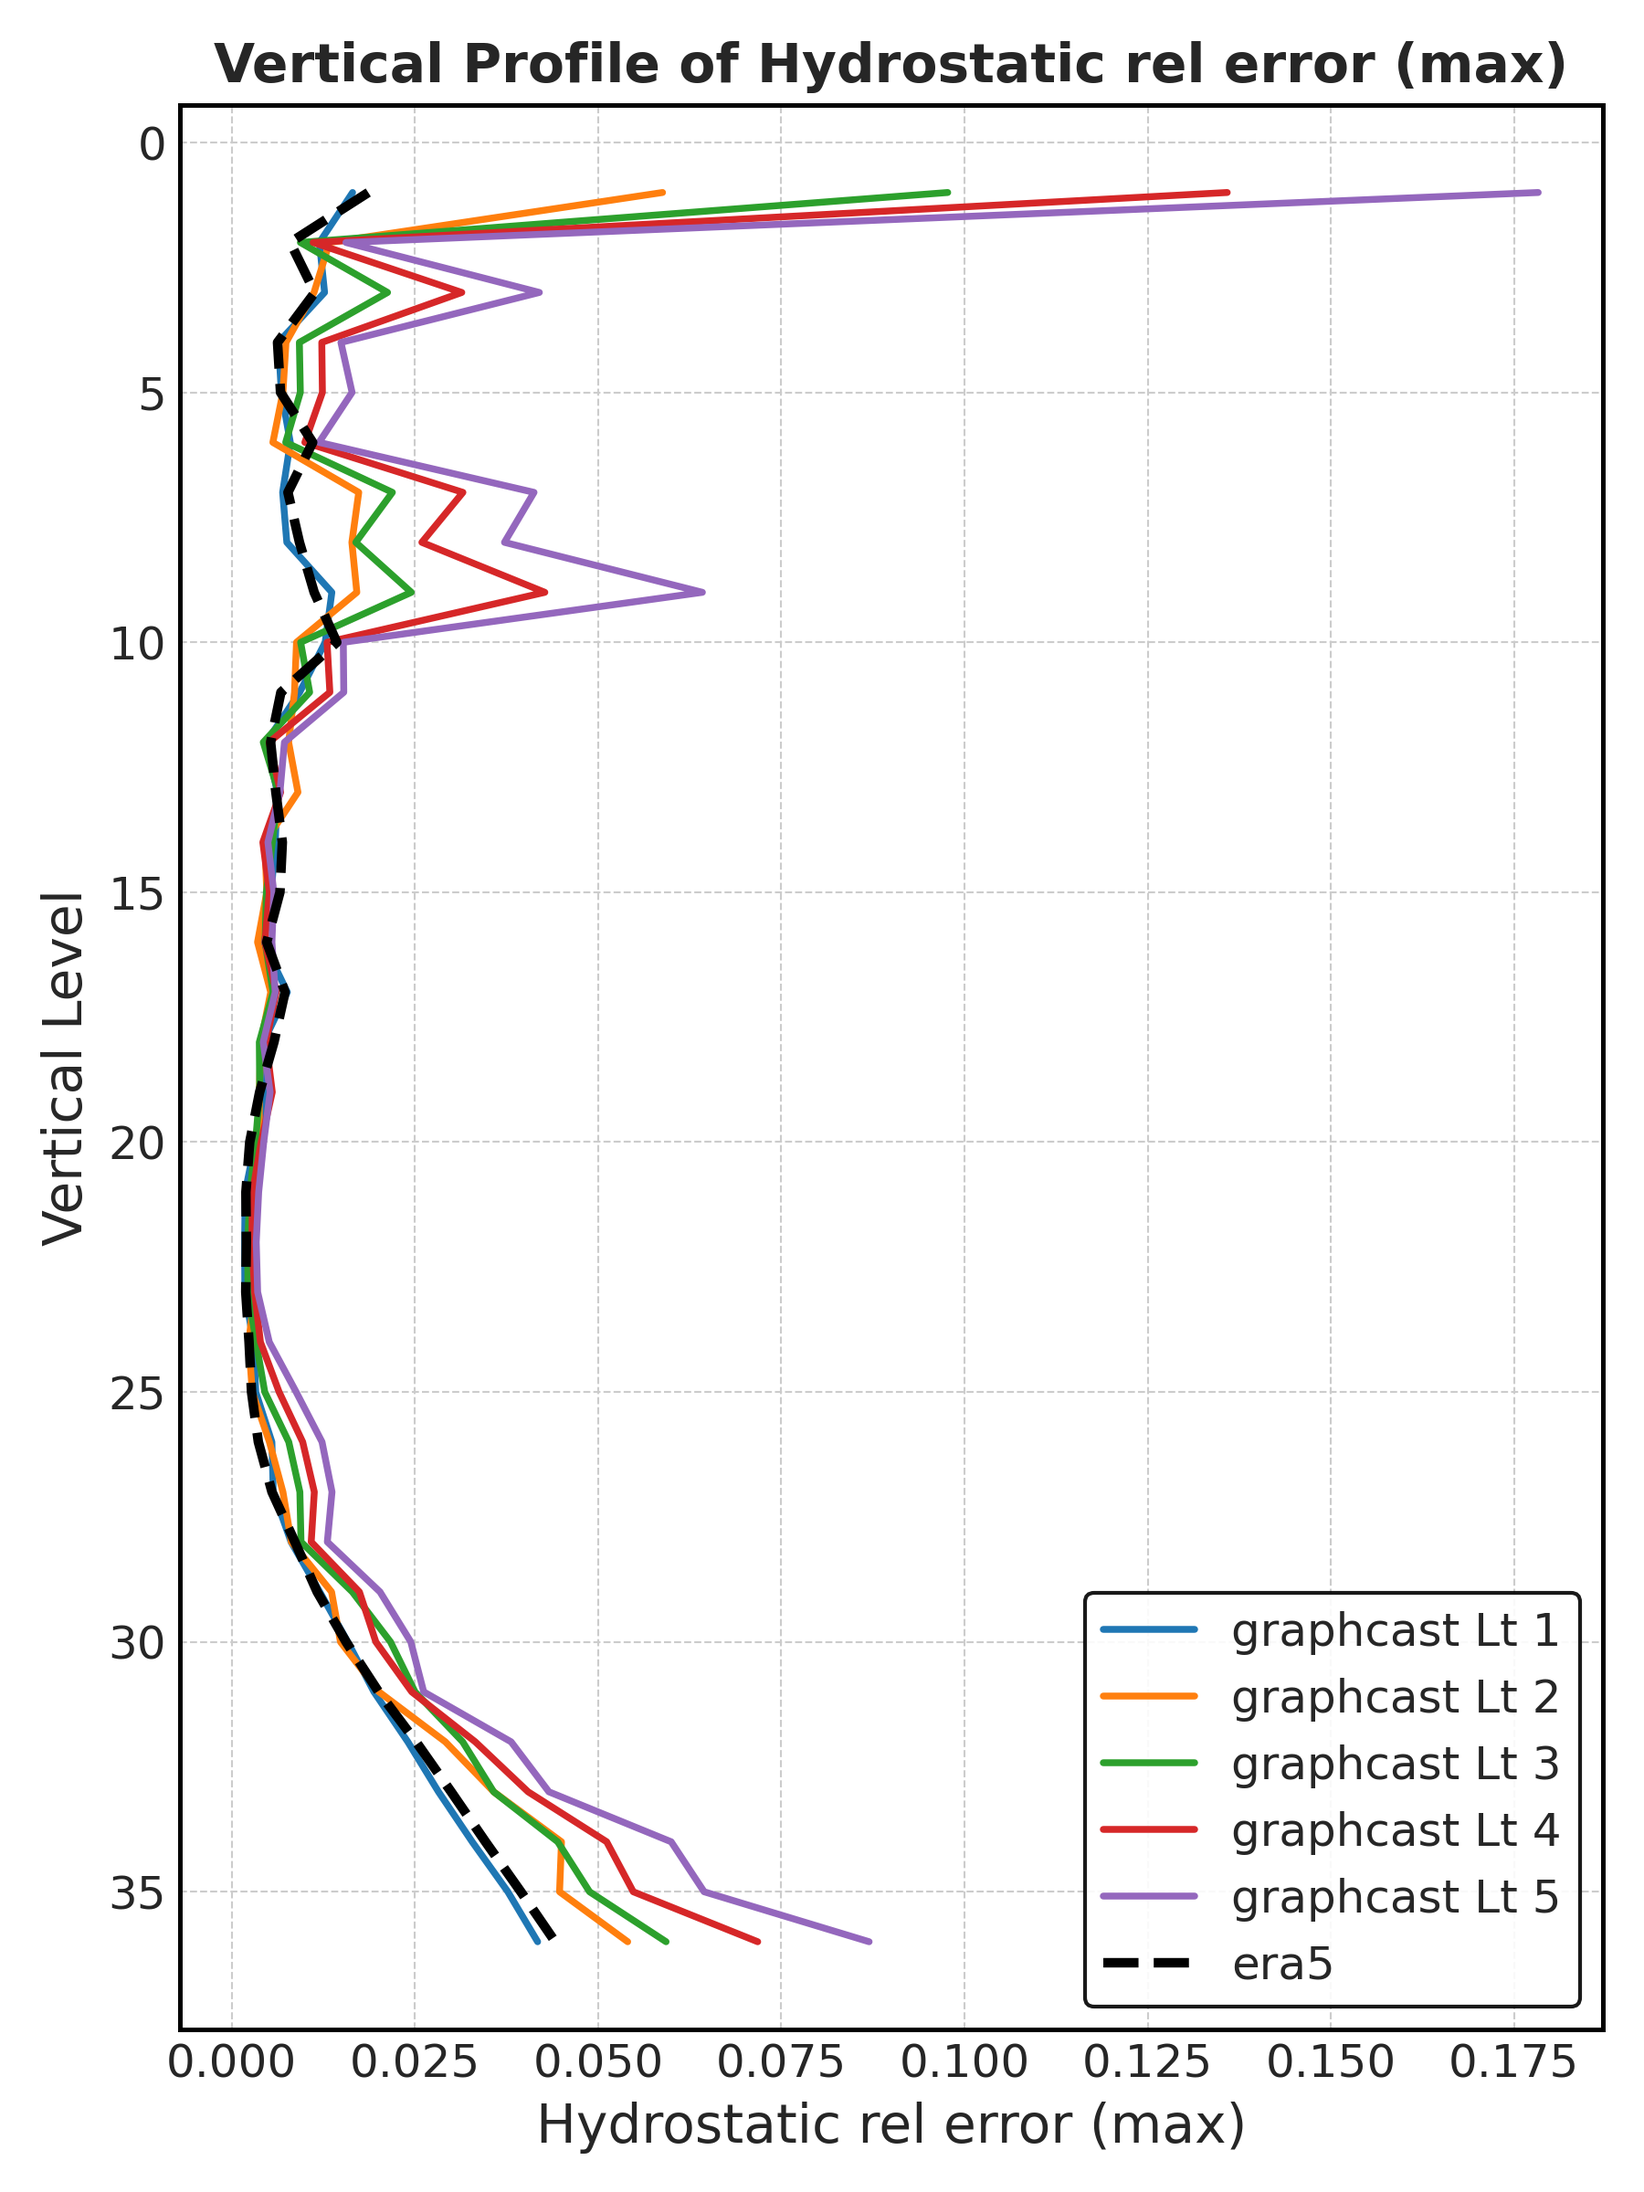
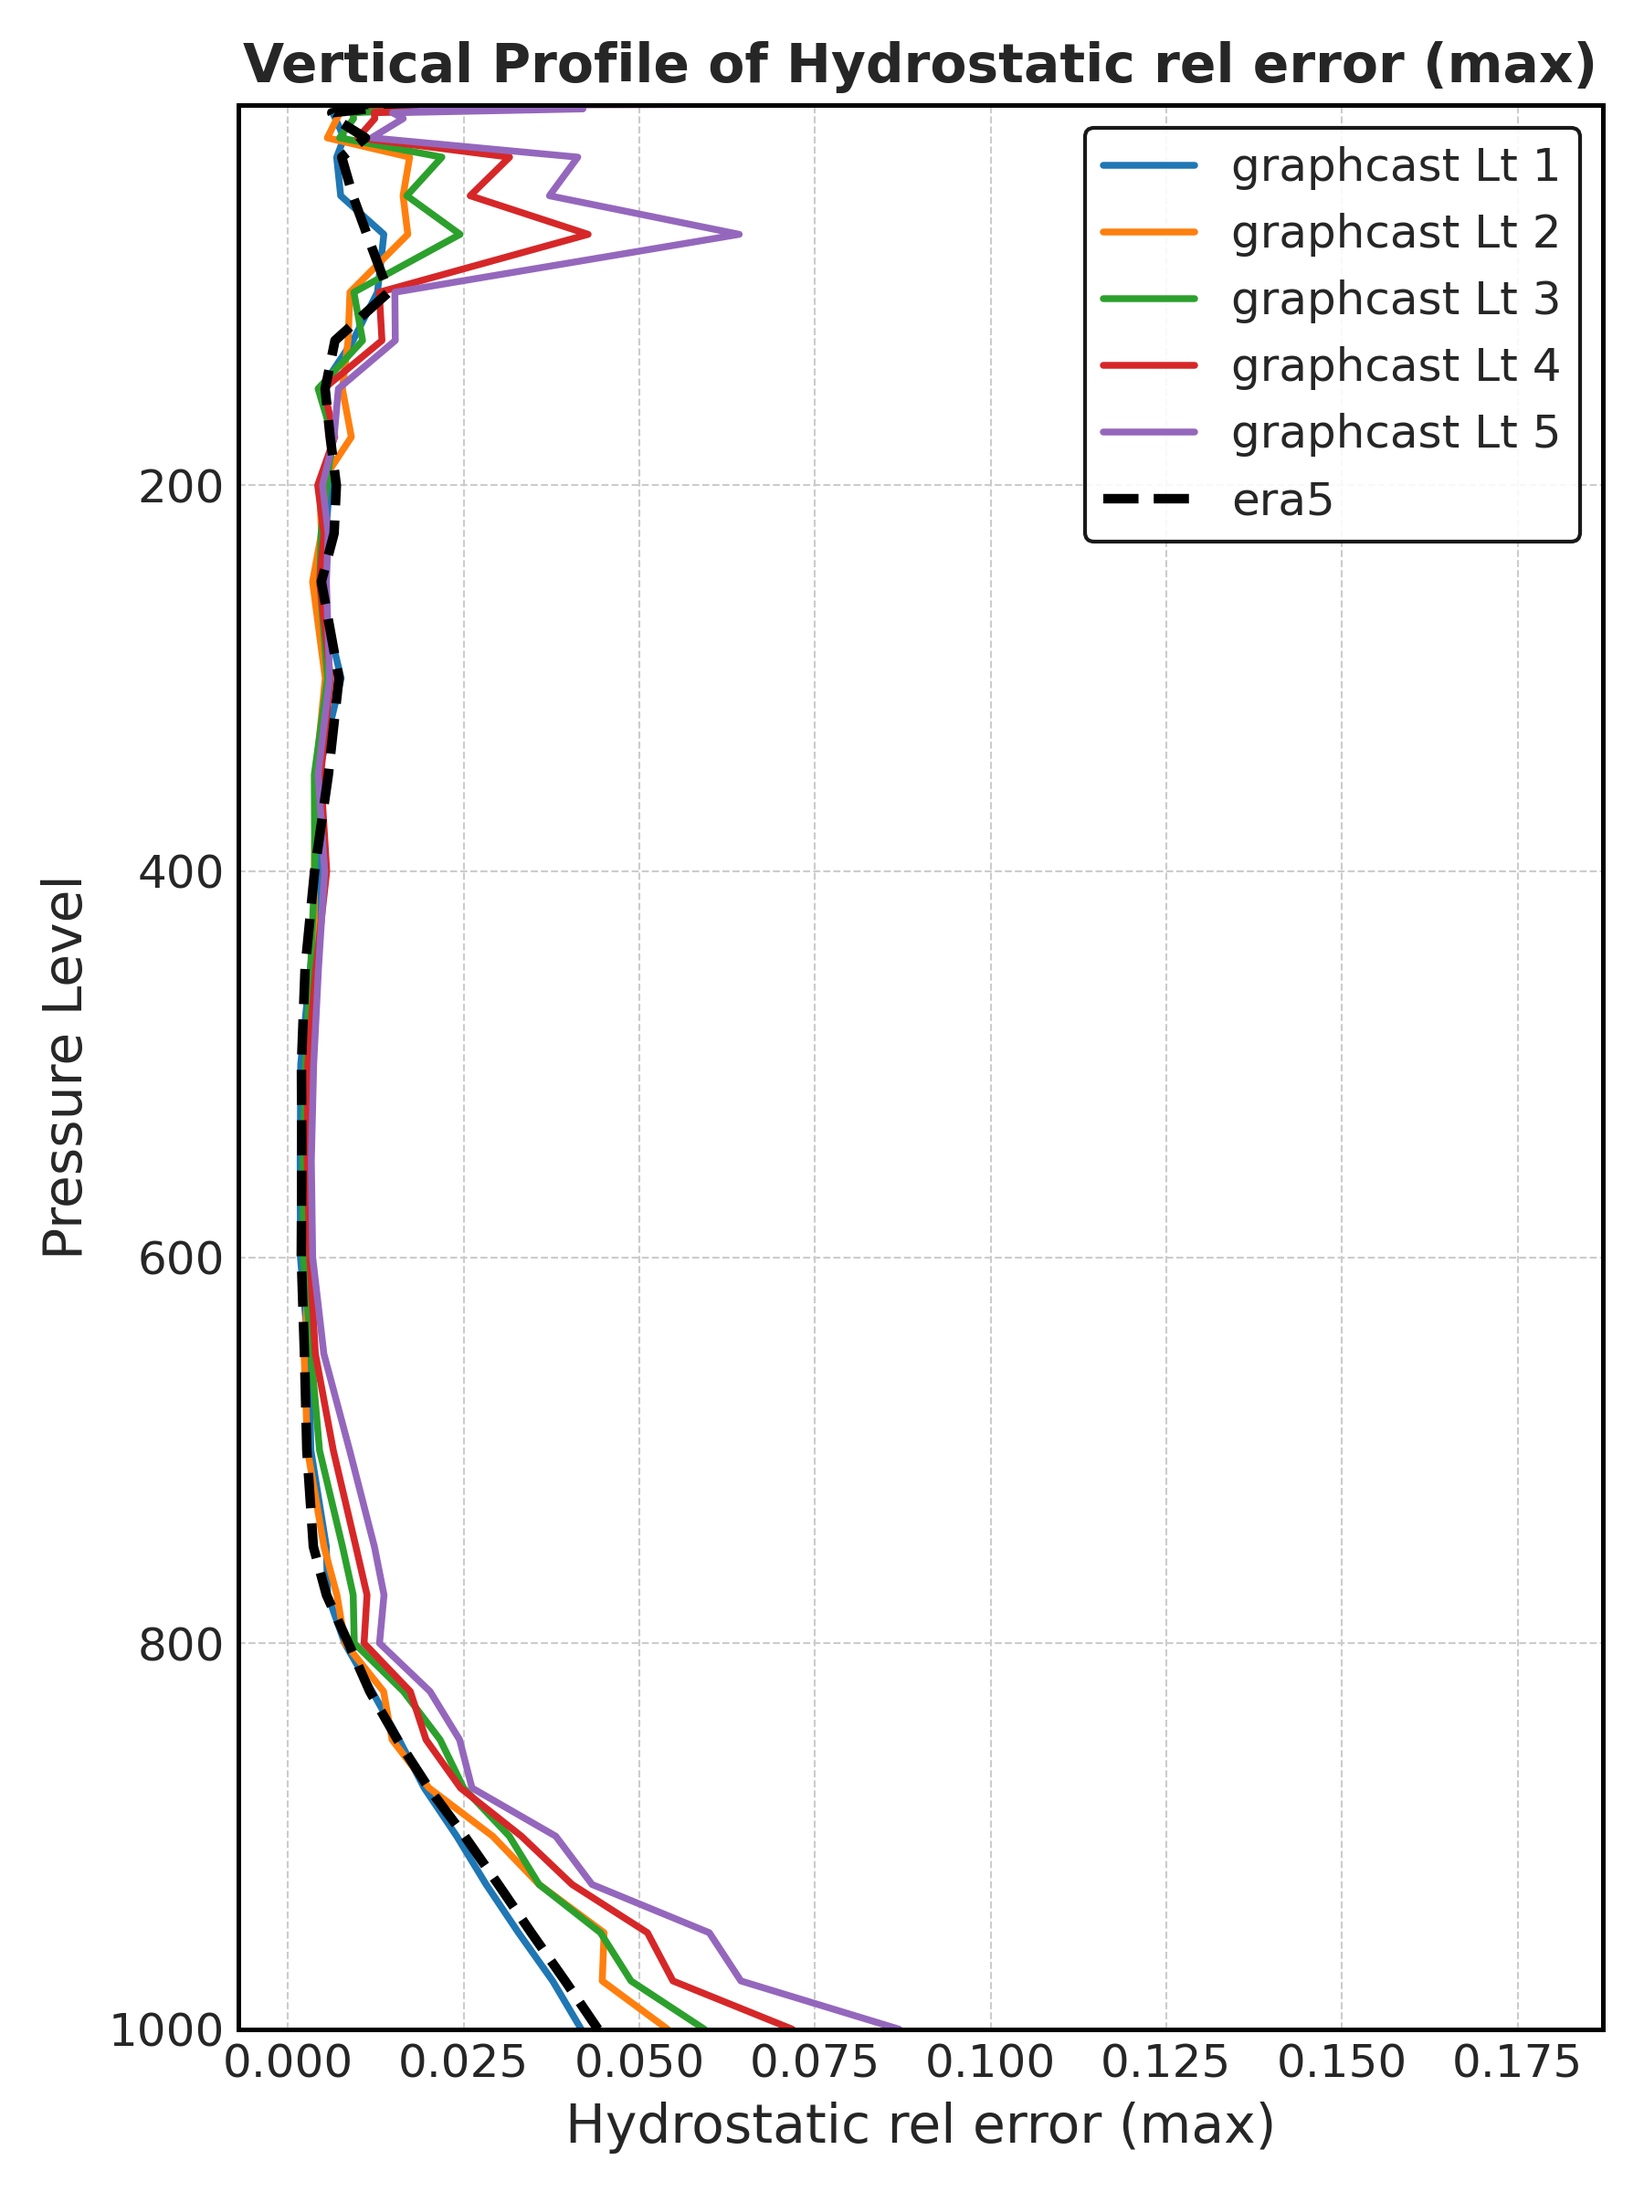
update vertical profiles

Changed region(s): [[0.0311, 0.0, 0.9644, 1.0]]

diff --git a/pace/utils/plot_utils/vertical_profile.py b/pace/utils/plot_utils/vertical_profile.py
@@ -7,14 +7,17 @@ import seaborn as sns
 
 def compute_summary_stats(
     store: Dict[Tuple[str, np.datetime64, int], np.ndarray],
+    latitudes: np.ndarray,
     selected_leadtimes: Optional[List[int]] = None,
     summary_stats: List[str] = ["mean", "stdev", "min", "max"],
 ) -> Dict[str, Dict[str, np.ndarray]]:
     """
-    Compute summary statistics over lat/lon per vertical level, sample-wise then averaged.
+    Compute weighted summary statistics over lat/lon per vertical level, sample-wise then averaged.
+    Latitude weighting uses w = cos(lat) in radians.
 
     Parameters:
     - store: dict of {(var_name, base_time, lead_time): np.ndarray}, shape [1, level, lat, lon]
+    - latitudes: 1D array of latitudes corresponding to lat dimension, in degrees
     - selected_leadtimes: list of lead times for model, None for reference (all leadtimes)
     - summary_stats: list of stats to compute: mean, stdev, min, max
 
@@ -23,17 +26,43 @@ def compute_summary_stats(
       shape [num_leadtimes, num_levels] for model.
     """
 
-    # Use nan-safe numpy funcs
+    # Convert latitudes to radians and compute weights shape [lat]
+    lat_radians = np.deg2rad(latitudes)
+    weights_1d = np.cos(lat_radians)
+    # Ensure weights non-negative
+    weights_1d = np.clip(weights_1d, 0, None)
+    # Normalize weights to sum to 1 for stable weighted mean
+    weights_1d = weights_1d / np.sum(weights_1d)
+
+    def weighted_mean(data: np.ndarray) -> np.ndarray:
+        # data shape: [level, lat, lon]
+        w2d = weights_1d[None, :, None]  # [1, lat, 1]
+        weighted_sum = np.nansum(data * w2d, axis=(-2, -1))
+        total_weight = np.sum(weights_1d) * data.shape[-1]  # sum over lat * num_lon
+        return weighted_sum / total_weight
+
+    def weighted_stdev(data: np.ndarray, mean: np.ndarray) -> np.ndarray:
+        w2d = weights_1d[None, :, None]  # [1, lat, 1]
+        diff_sq = (data - mean[:, None, None]) ** 2
+        weighted_var = np.nansum(diff_sq * w2d, axis=(-2, -1)) / (np.sum(weights_1d) * data.shape[-1])
+        return np.sqrt(weighted_var)
+
+
+    # fallback to unweighted stats for min/max
+    def nan_min(data: np.ndarray) -> np.ndarray:
+        return np.nanmin(data, axis=(-2, -1))
+
+    def nan_max(data: np.ndarray) -> np.ndarray:
+        return np.nanmax(data, axis=(-2, -1))
+
+    # Map stat name to function (weighted mean and stdev, unweighted min/max)
     stat_funcs = {
-        "mean": np.nanmean,
-        "stdev": np.nanstd,
-        "min": np.nanmin,
-        "max": np.nanmax,
+        "mean": weighted_mean,
+        "stdev": weighted_stdev,
+        "min": nan_min,
+        "max": nan_max,
     }
 
-    # Accumulate per sample statistics in lists:
-    # For model: var_name -> lead_time -> stat -> list of arrays shape [levels]
-    # For reference: var_name -> stat -> list of arrays shape [levels]
     if selected_leadtimes is not None:
         # MODEL
         data_accum = {}
@@ -45,58 +74,59 @@ def compute_summary_stats(
             if lead_time not in data_accum[var_name]:
                 data_accum[var_name][lead_time] = {stat: [] for stat in summary_stats}
 
-            data = np.array(arr)  # shape [1, level, lat, lon]
-            data = data.squeeze()  # [level, lat, lon]
+            data = np.array(arr).squeeze()  # shape [level, lat, lon]
             if data.ndim != 3:
-                # print(f"Skipping sample {var_name} {base_time} {lead_time}, unexpected shape {data.shape}")
                 continue
 
             for stat in summary_stats:
-                val = stat_funcs[stat](data, axis=(-2, -1))  # nan-aware over lat/lon
+                if stat == "stdev":
+                    # stdev needs mean first
+                    mean_val = weighted_mean(data)
+                    val = weighted_stdev(data, mean_val)
+                else:
+                    val = stat_funcs[stat](data)
                 data_accum[var_name][lead_time][stat].append(val)
 
-        # Now average all per-sample stats for each var, lead_time, stat
         results = {}
         for var_name, lt_dict in data_accum.items():
             results[var_name] = {}
             for stat in summary_stats:
-                # collect all lead_time arrays for this stat: shape [num_leadtimes, levels]
                 stat_per_lt = []
                 leadtimes_sorted = sorted(lt_dict.keys())
                 for lt in leadtimes_sorted:
-                    arrs = lt_dict[lt][stat]  # list of arrays shape [levels]
-                    # mean over all samples for this leadtime
+                    arrs = lt_dict[lt][stat]
                     mean_arr = np.nanmean(arrs, axis=0)
                     stat_per_lt.append(mean_arr)
-                results[var_name][stat] = np.stack(stat_per_lt, axis=0)  # shape [num_leadtimes, levels]
-    
+                results[var_name][stat] = np.stack(stat_per_lt, axis=0)
+
     else:
-        # REFERENCE: accumulate stats over all samples (all base_time and lead_time)
+        # REFERENCE
         data_accum = {}
         for (var_name, base_time, lead_time), arr in store.items():
             if var_name not in data_accum:
                 data_accum[var_name] = {stat: [] for stat in summary_stats}
 
-            data = np.array(arr)  # [1, level, lat, lon]
-            data = data.squeeze()  # [level, lat, lon]
+            data = np.array(arr).squeeze()  # shape [level, lat, lon]
             if data.ndim != 3:
-                # print(f"Skipping sample {var_name} {base_time} {lead_time}, unexpected shape {data.shape}")
                 continue
 
             for stat in summary_stats:
-                val = stat_funcs[stat](data, axis=(-2, -1))
+                if stat == "stdev":
+                    mean_val = weighted_mean(data)
+                    val = weighted_stdev(data, mean_val)
+                else:
+                    val = stat_funcs[stat](data)
                 data_accum[var_name][stat].append(val)
 
         results = {}
         for var_name, stat_dict in data_accum.items():
             results[var_name] = {}
             for stat in summary_stats:
-                arrs = stat_dict[stat]  # list of arrays shape [levels,]
+                arrs = stat_dict[stat]
                 if len(arrs) == 0:
                     print(f"No valid samples for {var_name} stat {stat}")
                     continue
-                stacked = np.stack(arrs, axis=0)  # shape [num_samples, levels]
-                # Average over all samples (axis=0) -> result shape [levels,]
+                stacked = np.stack(arrs, axis=0)
                 results[var_name][stat] = np.nanmean(stacked, axis=0)
 
     return results
@@ -105,6 +135,7 @@ def compute_summary_stats(
 def plot_profiles(
     results_model: Dict[str, Dict[str, np.ndarray]],
     results_ref: Optional[Dict[str, Dict[str, np.ndarray]]],
+    pressure_levels: np.ndarray,
     output_dir: Path,
     summary_stats: List[str],
     model_name: str = "Model",
@@ -137,8 +168,6 @@ def plot_profiles(
             else:  
                 continue
 
-            vertical_levels = np.arange(n_levels)
-
             # Plot model lead times
             num_leadtimes = data_model.shape[0]
 
@@ -147,7 +176,7 @@ def plot_profiles(
 
             for i in range(num_leadtimes):
                 plt.plot(
-                    data_model[i], vertical_levels,
+                    data_model[i], pressure_levels,
                     label=f"{model_name} Lt {i+1}",
                     color=palette[i % len(palette)],
                     linewidth=1.8,
@@ -158,7 +187,7 @@ def plot_profiles(
                 data_ref = results_ref[var_name][stat]
                 if data_ref.shape[0] == n_levels:
                     plt.plot(
-                        data_ref, vertical_levels,
+                        data_ref, pressure_levels,
                         label=f"{ref_name}",
                         color='black',
                         linewidth=2.5,
@@ -170,7 +199,8 @@ def plot_profiles(
             ax = plt.gca()
             ax.invert_yaxis()  # pressure or height: usually top-down
             plt.xlabel(f"{var_name.replace('_', ' ').capitalize()} ({stat})", fontsize=14)
-            plt.ylabel("Vertical Level", fontsize=14)
+            plt.ylim(bottom=1000)
+            plt.ylabel("Pressure Level", fontsize=14)
             plt.title(f"Vertical Profile of {var_name.replace('_', ' ').capitalize()} ({stat})", fontsize=14, weight='bold')
 
             # Styling from histograms:

diff --git a/pace/postprocess.py b/pace/postprocess.py
@@ -48,7 +48,6 @@ def unpack_custom_zarr_vars(zarr_root):
 
 def load_coords_from_zarr(zarr_root_path):
     zarr_root_path = Path(zarr_root_path)
-    # Try opening latitude, longitude, and level arrays from the root
     coords = {}
     for coord_name in ['lat', 'lon', 'pressure_levels']:
         coord_path = zarr_root_path / coord_name
@@ -110,10 +109,9 @@ def main():
 
     coords = load_coords_from_zarr(model_path)
 
-    print("Latitude values:", coords.get("lat"))
-    print("Longitude values:", coords.get("lon"))
-    print("Level values:", coords.get("pressure_levels"))
-
+    lats = coords.get("lat")
+    lons = coords.get("lon")
+    pressure_levels = coords.get("pressure_levels")
 
     ref_name = None
     ref_store = {}
@@ -150,11 +148,13 @@ def main():
 
         profiles = vertical_profile.compute_summary_stats(
             model_store,
+            lats,
             selected_leadtimes=model_leadtimes,
             summary_stats=summary_stats,
         )
         ref_profiles = vertical_profile.compute_summary_stats(
             ref_store,
+            lats,
             selected_leadtimes=None,
             summary_stats=summary_stats,
         ) if ref_store else {}
@@ -162,6 +162,7 @@ def main():
         vertical_profile.plot_profiles(
             profiles,
             ref_profiles,
+            pressure_levels,
             plots_dir,
             summary_stats,
             model_name,

diff --git a/pace/utils/plot_utils/histogram.py b/pace/utils/plot_utils/histogram.py
@@ -168,3 +168,4 @@ def plot_hist(
         plt.savefig(out_dir / f"{metric}.png", dpi=300)
         print(f"Saved: {out_dir}/{metric}.png")
         plt.close()
+        
